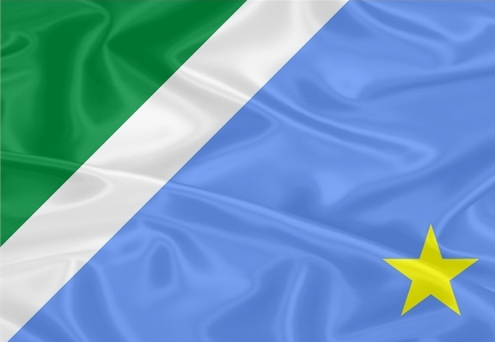
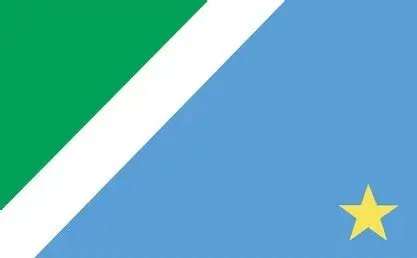
Correções Sobre a Auditoria

diff --git a/index.html b/index.html
@@ -7,6 +7,10 @@
     <title>WDD 131 – Fundamentos da Web Dinâmica - Luis Felipe Goellner</title>
     <meta name="description" content="WDD 131 – Fundamentos da Web Dinâmica - Luis Felipe Goellner - Página pessoal de aprendizagem do curso da BYU-Idaho">
     <meta name="author" content="Luis Felipe Goellner">
+    <link rel="preconnect" href="https://fonts.googleapis.com">
+    <link rel="preconnect" href="https://fonts.gstatic.com" crossorigin>
+    <link href="https://fonts.googleapis.com/css2?family=Roboto:wght@400;500;700&display=swap" rel="stylesheet">
+
     <link rel="stylesheet" href="estilos/base.css">
     <script src="scripts/obterdatas.js" defer></script>
 </head>
@@ -14,8 +18,7 @@
 <body>
 
     <header>
-
-        <h1>WDD 131 – Fundamentos da Web Dinâmica - Luis Felipe Goellner</h1>
+        <h1><span id="course-title">WDD 131 – Fundamentos da Web Dinâmica</span> - Luis Felipe Goellner</h1>
         <nav>
             <ul class="navegacao">
                 <li><a href="https://br.linkedin.com/">LinkedIn</a></li>
@@ -44,13 +47,11 @@
                     
                 </p>
 
-                <h3 class="localizacao">
-                    Campo Grande, Mato Grosso do Sul
-                </h3>
+                <h3 class="localizacao">Campo Grande, Mato Grosso do Sul</h3>
 
                 <div class="linha"></div>
 
-                <img class="bandeira" src="imagens/bandeira-ms.png" alt="Bandeira do Mato Grosso do Sul">
+                <img class="bandeira" src="imagens/bandeira-ms.jpg" alt="Bandeira do Mato Grosso do Sul">
                 <p>
                     Mato Grosso do Sul é um estado localizado na
                     região Centro-Oeste do Brasil. O estado possui

diff --git a/estilos/base.css b/estilos/base.css
@@ -1,6 +1,6 @@
 body {
     margin: 0;
-    font-family: Arial, sans-serif;
+    font-family: "Roboto", sans-serif;
     color: #333;
     background-color: white;
 }
